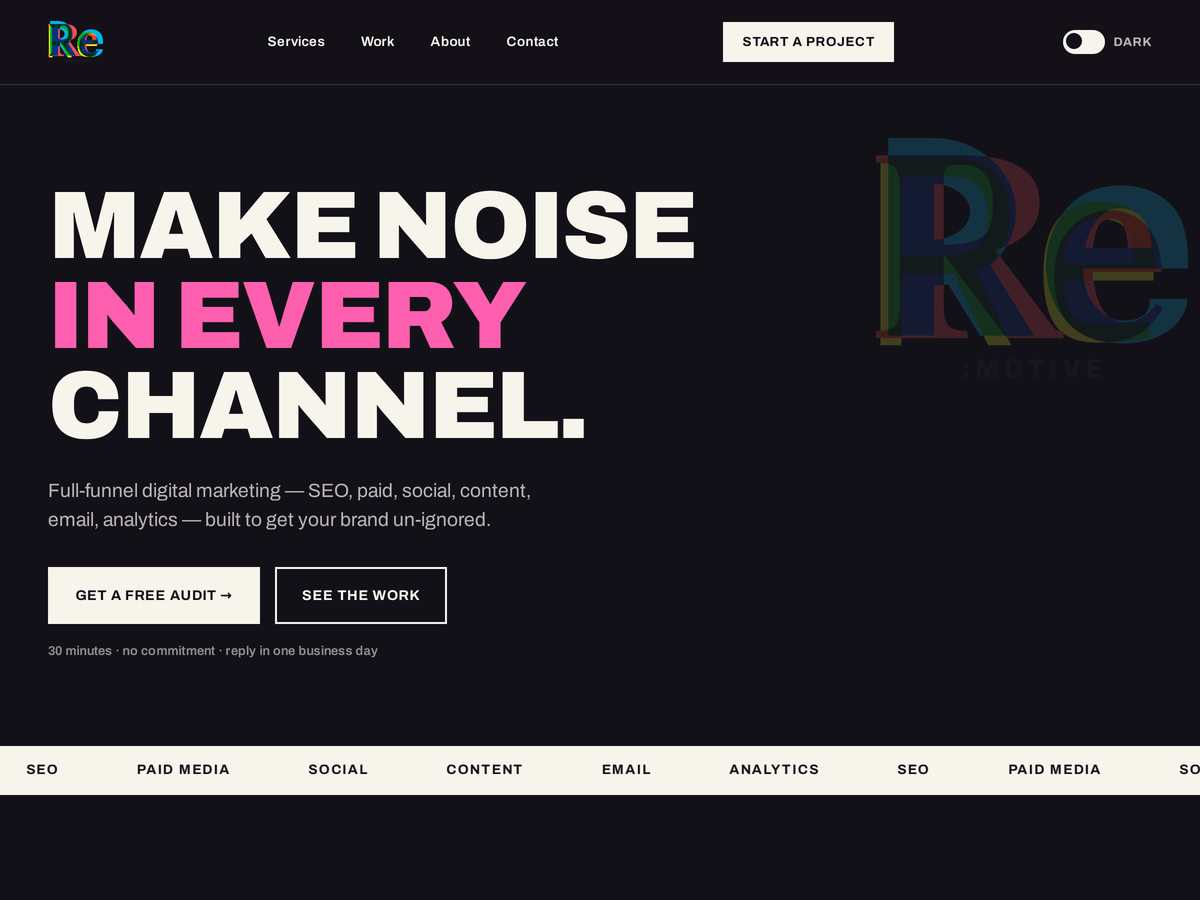
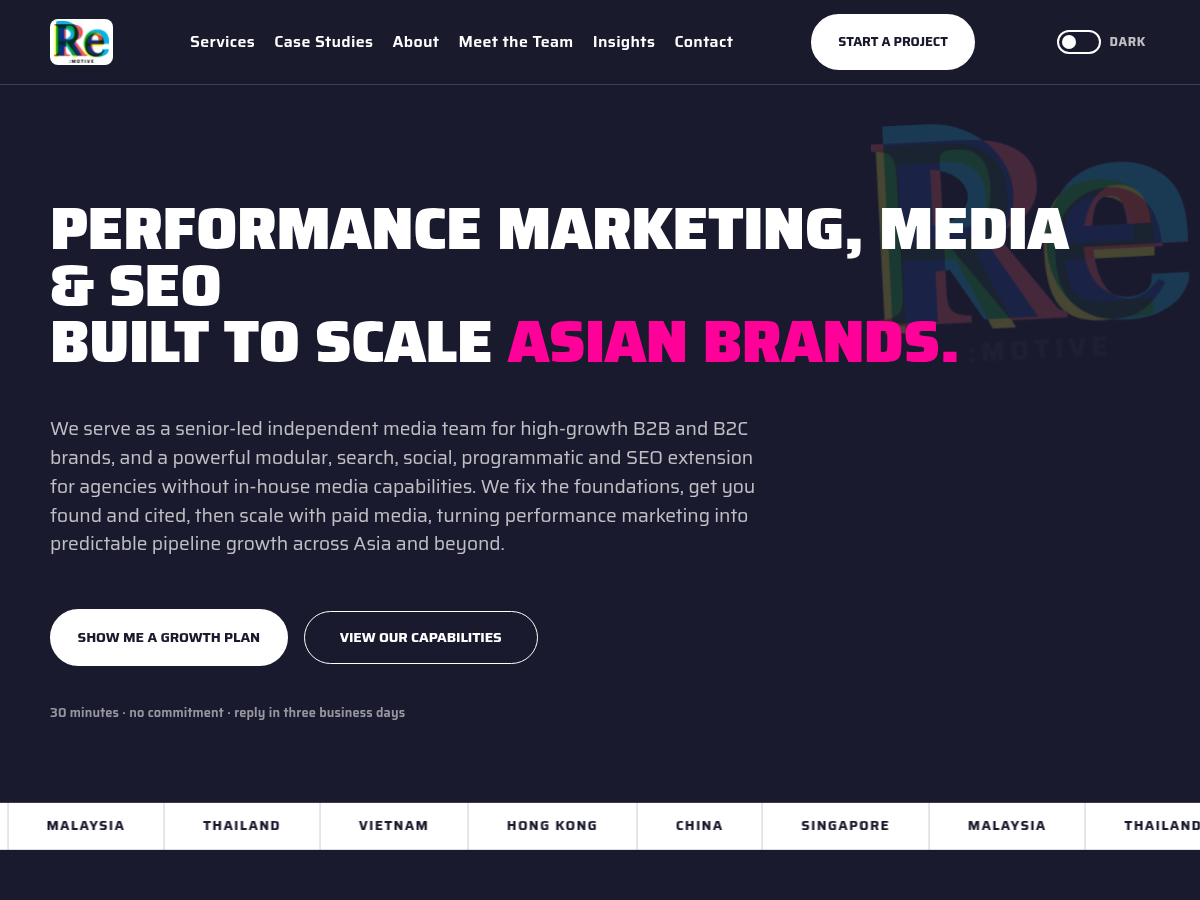
Update the theme screenshot (v1.103.2) (#16)
* Reduce theme root to five files (documents to docs/); bring ssot, upgrading and changelog current

Claude-Session: https://claude.ai/code/session_016fn48XKA7ANRB5kSkCsk8f

* Keep readme.md at the root alongside readme.txt

Claude-Session: https://claude.ai/code/session_016fn48XKA7ANRB5kSkCsk8f

* Fix readme.txt version drift; add version-agreement check to CI

Claude-Session: https://claude.ai/code/session_016fn48XKA7ANRB5kSkCsk8f

* Fix version check pattern (it captured a trailing full stop)

Claude-Session: https://claude.ai/code/session_016fn48XKA7ANRB5kSkCsk8f

* Six uncategorised case studies, footer and home aligned (1.98.0)

Claude-Session: https://claude.ai/code/session_016fn48XKA7ANRB5kSkCsk8f

* Editor palette follows Colours, server-side data-theme, unit tests in CI (1.99.0)

Claude-Session: https://claude.ai/code/session_016fn48XKA7ANRB5kSkCsk8f

* Group inc/ into six folders; add module-loading check to CI (1.100.0)

Claude-Session: https://claude.ai/code/session_016fn48XKA7ANRB5kSkCsk8f

* Theme URI points at the repository

Claude-Session: https://claude.ai/code/session_016fn48XKA7ANRB5kSkCsk8f

* Rank Math compatibility: robots, canonical, sitemap (1.101.0)

Claude-Session: https://claude.ai/code/session_016fn48XKA7ANRB5kSkCsk8f

* Parent theme colours follow this theme's (checked against Twenty Twenty-Five 1.5) (1.102.0)

Claude-Session: https://claude.ai/code/session_016fn48XKA7ANRB5kSkCsk8f
[…]

diff --git a/style.css b/style.css
@@ -9,6 +9,6 @@ Requires at least: 6.7
 Requires PHP: 7.4
 License: GPL-2.0-or-later
 License URI: https://www.gnu.org/licenses/gpl-2.0.html
-Version: 1.103.1
+Version: 1.103.2
 Text Domain: remotive
 */

diff --git a/docs/changelog.md b/docs/changelog.md
@@ -4,6 +4,12 @@ All notable changes to this theme are documented here. Format loosely
 follows [Keep a Changelog](https://keepachangelog.com/); versioning is
 [semver](https://semver.org/).
 
+## [1.103.2] — 2026-10-02
+
+### Changed
+
+- **Theme screenshot** (`screenshot.png`, 1200 × 900) replaced. The old one showed the pre-1.93 design (square buttons, the old navigation and headline). The new one is the live front page as rendered by WordPress 7.1.2 with the theme activated on a fresh install: dark mode, rounded buttons, current navigation and headline, and the six-market ticker. No code changed.
+
 ## [1.103.1] — 2026-10-02
 
 ### Fixed
